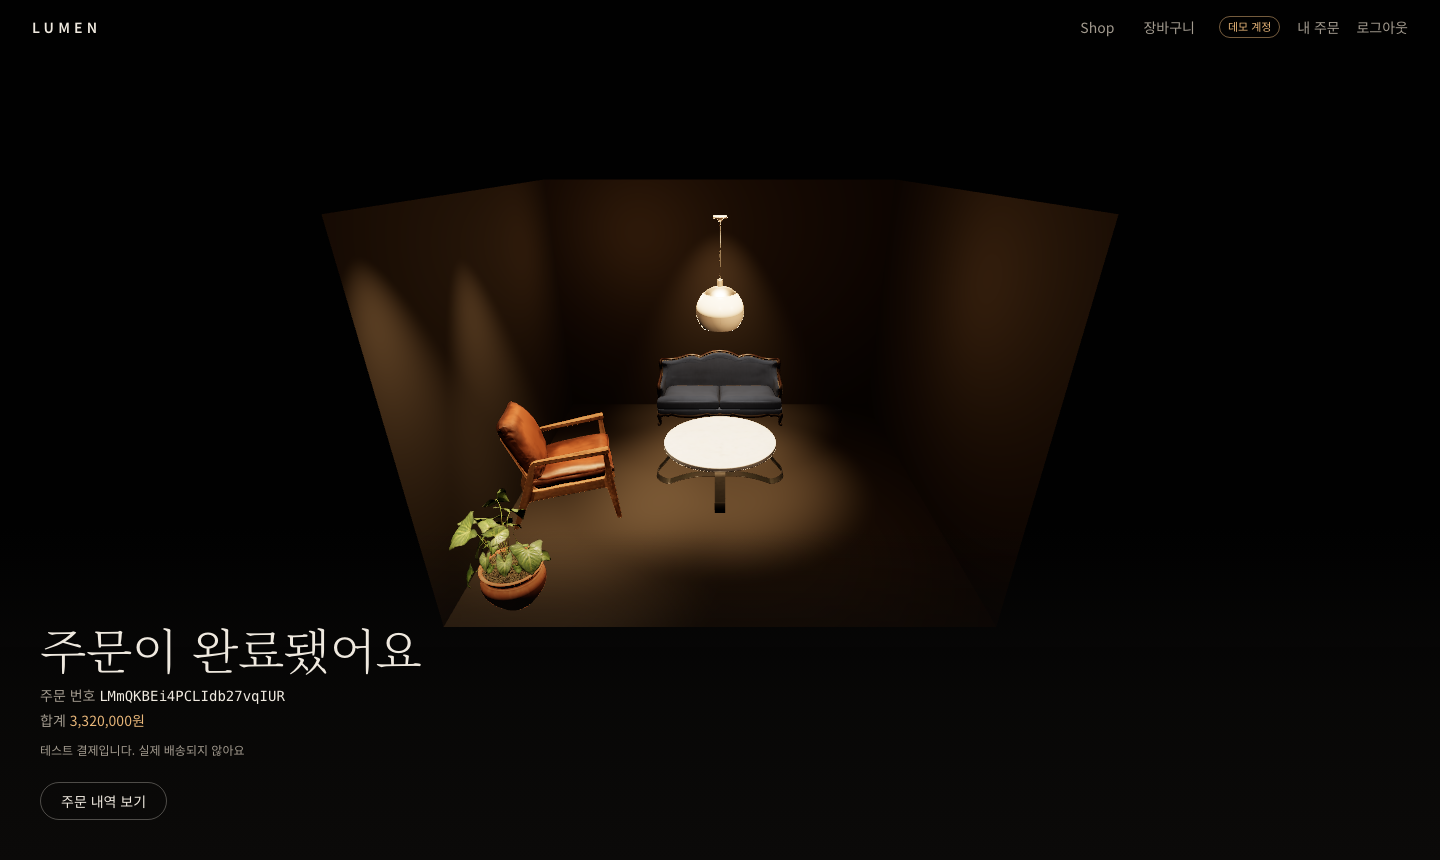
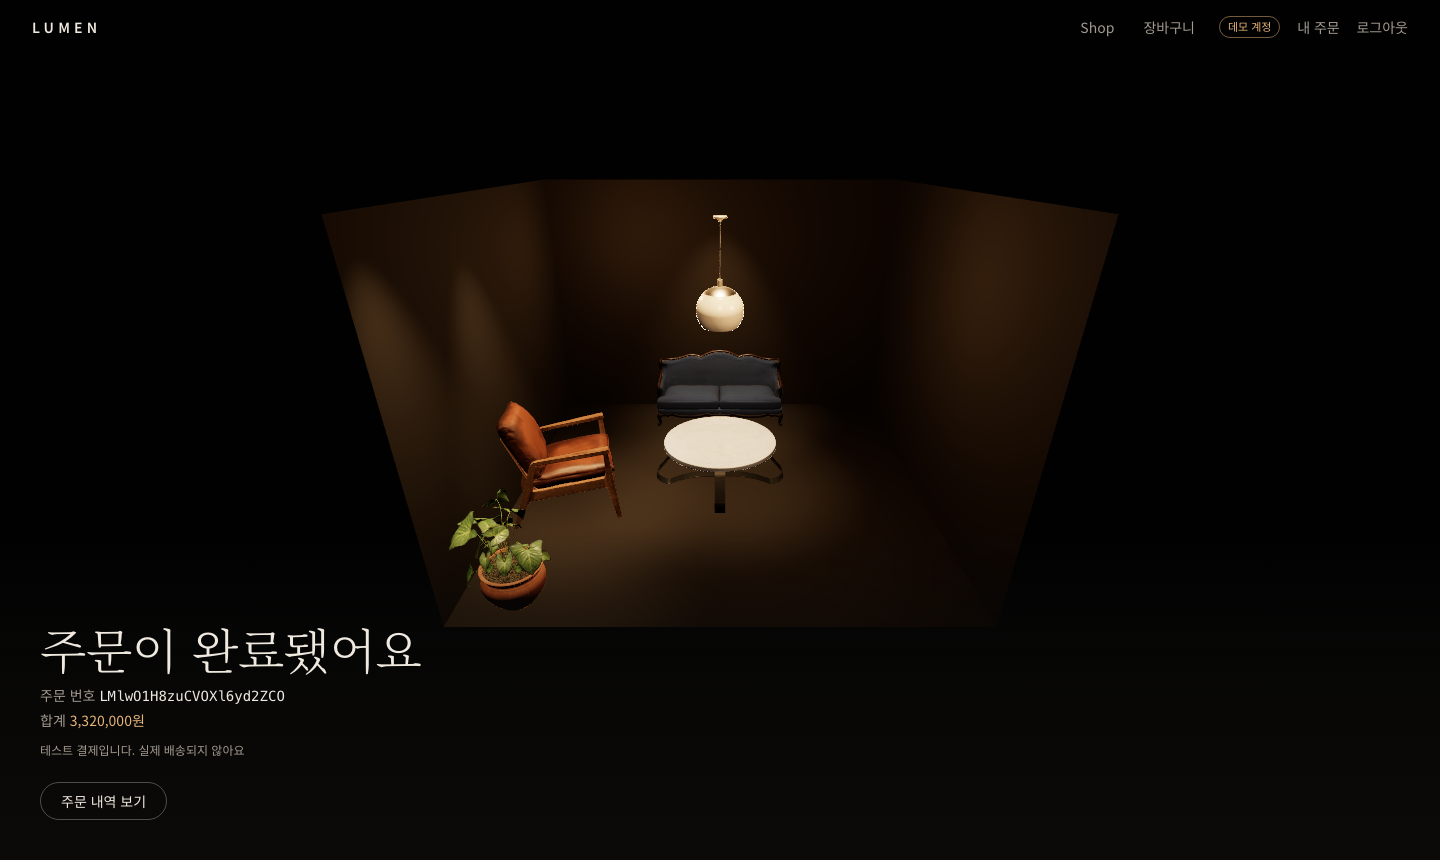
design: 상세 뷰어를 화면 높이에 맞춰 아래 빈 공간을 없앴다
뷰어가 4:3 비율이라 넓은 화면에서는 높이가 460px 남짓이었고, 그 아래가
통째로 비었다(1920×1080 에서 화면의 절반). 데스크톱에서는 비율 대신 화면
높이를 따르게 하고(460~780px), 오른쪽 정보는 뷰어 가운데에 맞췄다.
README 사진(상세 · 결제 완료)도 새로 찍었다.

Changed region(s): [[0.3125, 0.4535, 0.5938, 0.6953], [0.0938, 0.786, 0.1875, 0.8163], [0.4688, 0.3326, 0.5312, 0.3628]]

diff --git a/src/product/ProductViewer.tsx b/src/product/ProductViewer.tsx
@@ -8,8 +8,9 @@ import { colorOption } from "@/catalog/query";
 import { posterUrl } from "@/three/models";
 import { useColorParam } from "./useColorParam";
 
+// 데스크톱에서는 비율 대신 화면 높이에 맞춘다 — 4:3 이면 넓은 화면에서 뷰어 아래가 통째로 비었다
 const STAGE_CLASS =
-  "aspect-square w-full overflow-hidden rounded-sm bg-[radial-gradient(ellipse_at_50%_40%,#231e19,#0b0a09_70%)] sm:aspect-[4/3]";
+  "aspect-square w-full overflow-hidden rounded-sm bg-[radial-gradient(ellipse_at_50%_40%,#231e19,#0b0a09_70%)] sm:aspect-[4/3] lg:aspect-auto lg:h-[clamp(460px,calc(100svh-12rem),780px)]";
 
 // 로딩 중에도 같은 크기를 잡아 레이아웃이 밀리지 않게 한다 (CLS)
 const Stage3D = dynamic(loadStage3D, {

diff --git a/src/app/products/[slug]/page.tsx b/src/app/products/[slug]/page.tsx
@@ -21,7 +21,7 @@ export default async function ProductPage({ params }: { params: Params }) {
   const product = getProduct((await params).slug);
   if (!product) notFound();
   return (
-    <div className="mx-auto grid max-w-6xl gap-10 px-5 pb-20 pt-20 sm:px-8 lg:grid-cols-[1.4fr_1fr] lg:pt-24">
+    <div className="mx-auto grid max-w-6xl gap-10 px-5 pb-20 pt-20 sm:px-8 lg:grid-cols-[1.4fr_1fr] lg:items-center lg:pt-24 2xl:max-w-7xl">
       <ProductViewer product={product} />
       <div className="lg:pt-6">
         <Link href={`/products?category=${product.category}`} className="inline-flex min-h-6 items-center text-xs text-muted hover:text-fg">
